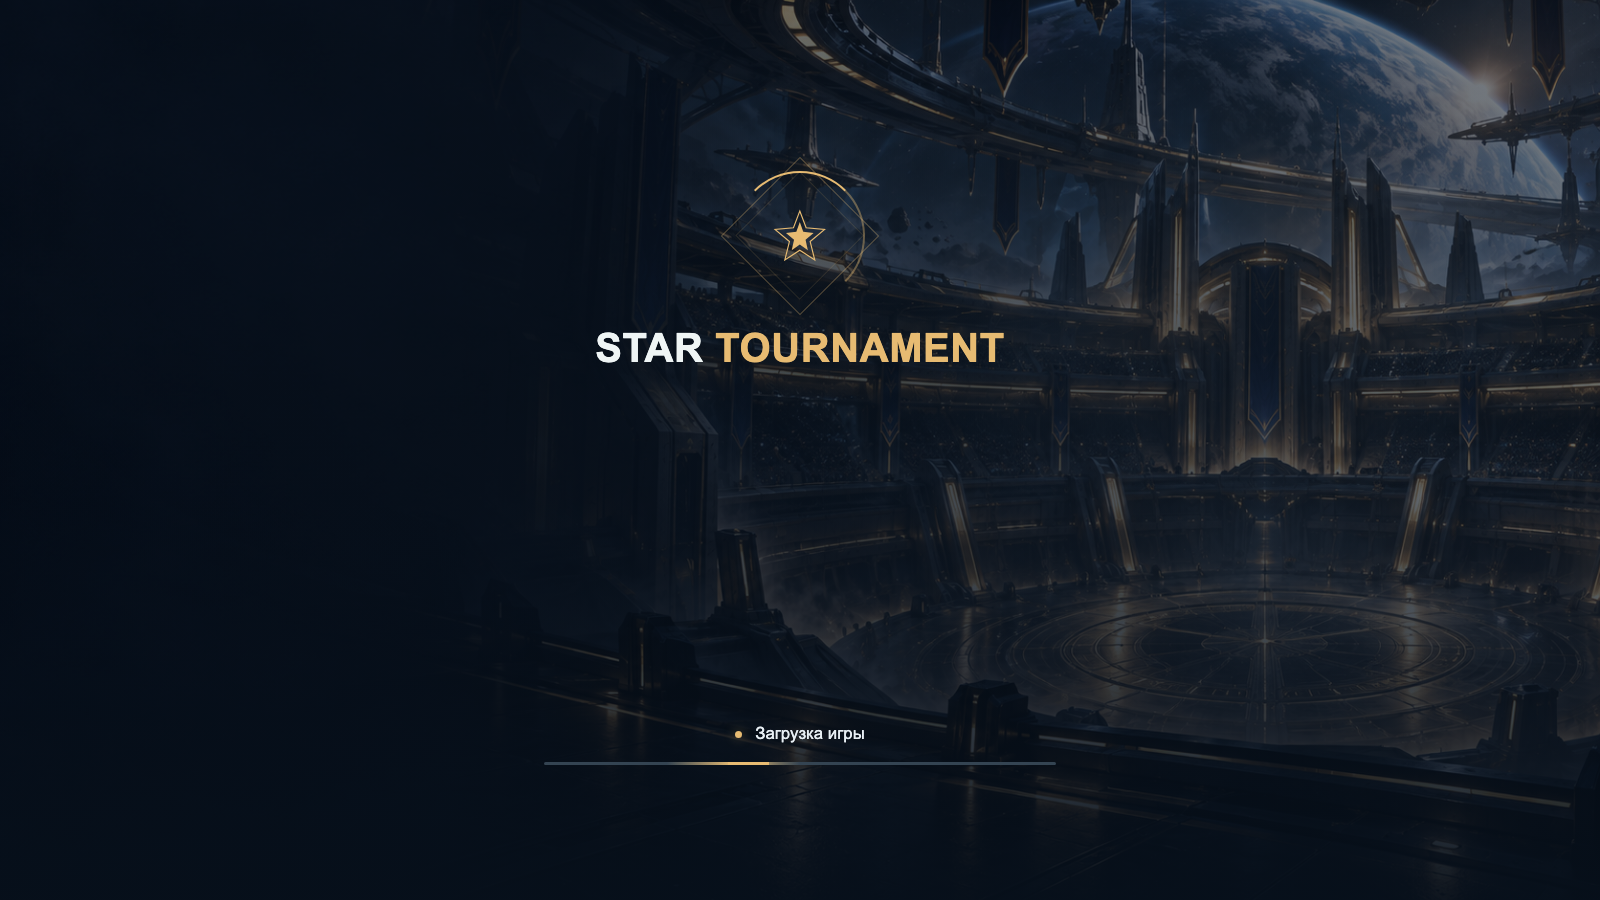
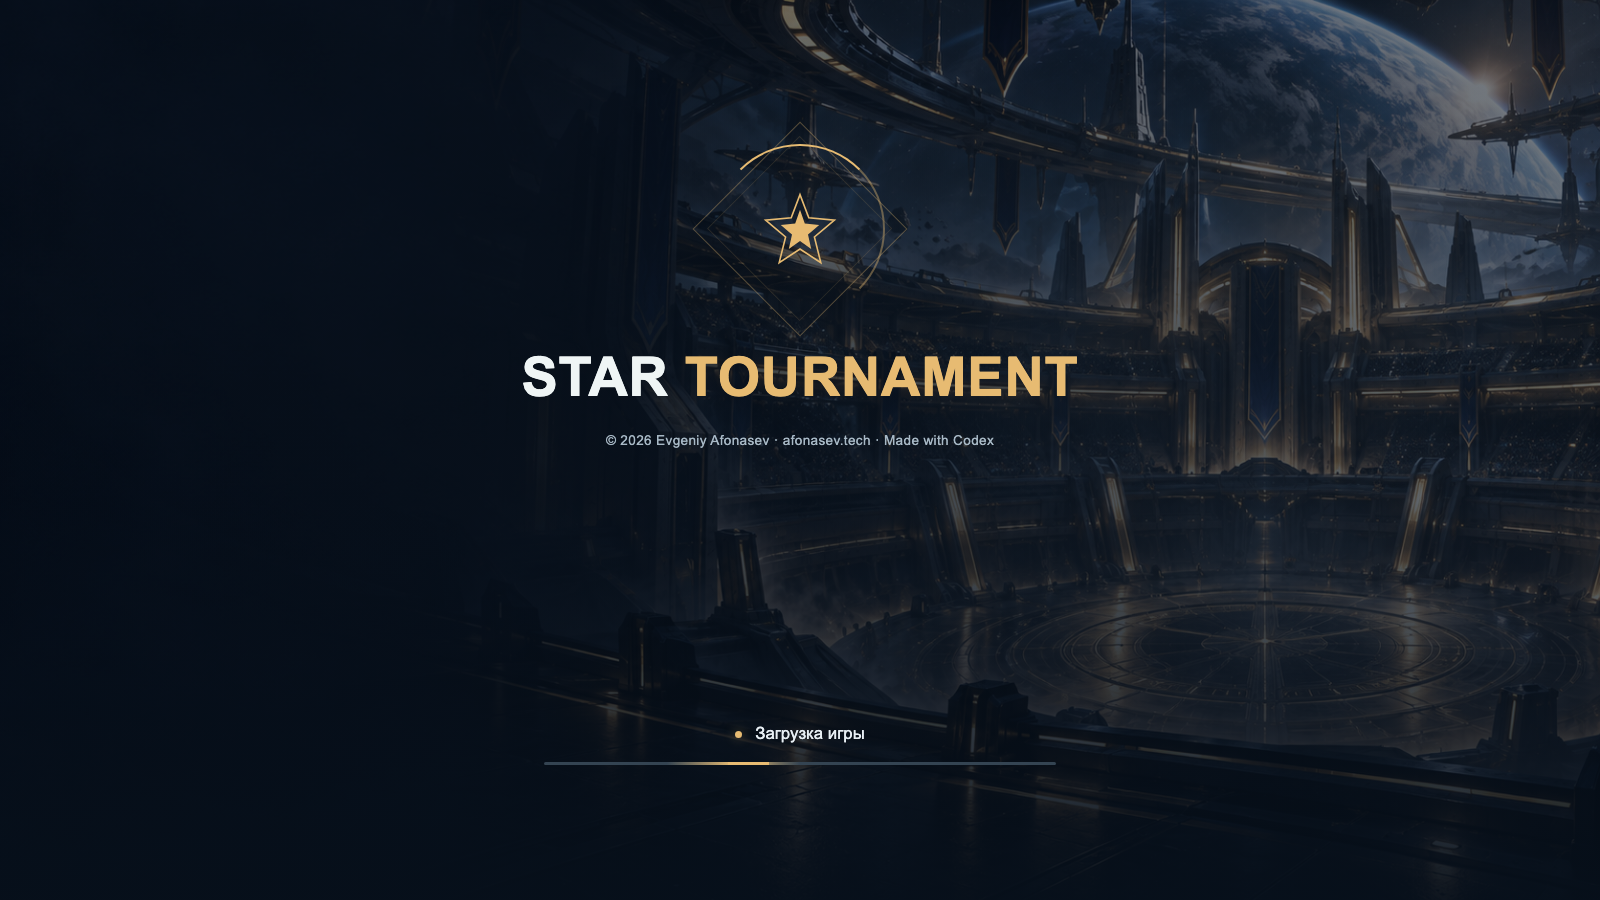
Enlarge startup branding and add author credit

Changed region(s): [[0.3125, 0.3422, 0.6875, 0.4978], [0.4688, 0.1556, 0.5625, 0.3111]]

diff --git a/docs/evidence/loading-screen-designs/index.html b/docs/evidence/loading-screen-designs/index.html
@@ -1,11 +1,12 @@
 <!doctype html><html lang="ru"><meta charset="utf-8"><title>Star Tournament — экраны загрузки</title>
 <style>
 *{box-sizing:border-box}body{margin:0;background:#101c29;color:#eff5f5;font-family:Arial,sans-serif} .screen{width:100vw;height:56.25vw;position:relative;overflow:hidden;background:#101c29 url('../../../unity/Assets/StarTournament/Resources/UI/menu-arena.png') center/cover no-repeat}.screen:before{content:'';position:absolute;inset:0;background:linear-gradient(90deg,rgba(7,16,27,.94),rgba(7,16,27,.45) 46%,rgba(7,16,27,.08) 76%),linear-gradient(0deg,rgba(7,16,27,.95),transparent 45%)}.brand{font-size:3.15vw;line-height:1.05;font-weight:700;letter-spacing:.015em}.gold{color:#e7bb72}.eyebrow{font-size:.86vw;letter-spacing:.2em;color:#a8b9c6;font-weight:700}.brand.small{font-size:1.15vw;letter-spacing:.08em}.content{position:absolute;left:6%;top:23%;width:38%}h1{font-size:3.2vw;line-height:1.08;margin:1.4vw 0 1.5vw;font-weight:700}h2{font-size:1.65vw;font-weight:400;margin:0 0 .7vw}p{font-size:1.05vw;color:#a8b9c6;line-height:1.65;margin:.7vw 0}.loading{position:absolute;left:6%;bottom:12%;width:34%}.status{display:flex;align-items:center;gap:.8vw;font-size:1.05vw;margin:1.1vw 0;color:#e8eff4}.track{position:relative;height:3px;background:#344452;overflow:hidden;border-radius:3px}.track:after{content:'';position:absolute;left:24%;width:26%;height:100%;background:linear-gradient(90deg,transparent,#e7bb72,transparent);animation:sweep 2s ease-in-out infinite}.track:before{content:'';position:absolute;left:36%;width:8%;height:100%;background:#e7bb72;box-shadow:0 0 12px #e7bb72}.dot{width:.45vw;height:.45vw;background:#e7bb72;border-radius:50%;box-shadow:0 0 12px #e7bb7277;animation:pulse 1.6s infinite}.foot{position:absolute;bottom:4%;left:6%;right:6%;display:flex;justify-content:space-between;font-size:.8vw;letter-spacing:.1em;color:#7f94a4}.match .rule .eyebrow{background:#101c29c9;padding:.55vw .8vw;border-radius:.3vw}.details .eyebrow.gold{color:#e7bb72}.rule{position:absolute;top:9%;left:6%;right:6%;display:flex;align-items:center;justify-content:space-between}.fine{height:1px;width:6vw;background:#e7bb72;margin:2.3vw 0}.meta{display:flex;gap:2vw;margin:1.8vw 0;color:#dce6eb;font-size:1.05vw}.meta span{border-left:1px solid #52616c;padding-left:.8vw}.meta b{display:block;font-size:.74vw;letter-spacing:.13em;color:#97aabb;margin-bottom:.55vw;font-weight:400}.badge{display:inline-block;border:1px solid #e7bb7255;color:#e7bb72;padding:.5vw .7vw;border-radius:.35vw;font-size:.74vw;letter-spacing:.12em}.tip{position:absolute;right:6%;bottom:12%;width:29%;padding:1.4vw 1.8vw;border-radius:.8vw;border:1px solid #60727c55;background:#101c29d9}.tip p{margin-bottom:0;font-size:.93vw}.tip .eyebrow{color:#e7bb72;letter-spacing:.14em}.match .content{top:28%}.match .loading{width:42%;bottom:13%}.center:before{background:linear-gradient(0deg,rgba(7,16,27,.95),rgba(7,16,27,.52) 45%,rgba(7,16,27,.5)),radial-gradient(ellipse at center,rgba(7,16,27,.58),transparent)}.central{position:absolute;top:20%;left:50%;transform:translateX(-50%);text-align:center;width:54%}.central .brand{font-size:2.5vw;line-height:1.2}.emblem{width:7vw;height:7vw;margin:0 auto 2vw;position:relative;display:grid;place-items:center}.emblem:before,.emblem:after{content:'';position:absolute;inset:0;border:1px solid #e7bb7255;transform:rotate(45deg)}.emblem:after{inset:.65vw;border-color:#e7bb7222}.emblem svg{width:3.6vw;height:3.6vw}.ring{position:absolute;inset:-.55vw;border:2px solid transparent;border-top-color:#e7bb72;border-right-color:#e7bb7266;border-radius:50%;animation:spin 6s linear infinite}.center .loading{left:50%;transform:translateX(-50%);text-align:center;width:32%;bottom:15%}.center .status{justify-content:center}.center h2{margin-top:1.8vw;font-size:1.3vw}.card{position:absolute;left:50%;top:25%;transform:translateX(-50%);width:56%;border:1px solid #6c809155;border-radius:1vw;overflow:hidden;background:#101c29ec;box-shadow:0 30px 80px #0008;display:flex}.art{width:38%;position:relative;background:url('../../../unity/Assets/StarTournament/Resources/UI/menu-arena.png') 70% center/cover;min-height:22vw}.art:after{content:'';position:absolute;inset:0;background:linear-gradient(0deg,#101c29aa,transparent 65%)}.art .badge{position:absolute;bottom:1.7vw;left:1.5vw;z-index:1;background:#101c29c9}.details{padding:2.2vw 2.5vw;width:62%}.details h1{font-size:2.45vw;margin:1vw 0}.details .meta{gap:1.2vw;font-size:.94vw}.details .fine{margin:1.5vw 0;width:100%;background:#3e5363}.bmatch .loading{bottom:15%;width:40%}.bmatch:before{background:linear-gradient(0deg,#07101bf2,#07101b9c),linear-gradient(90deg,#07101b77,transparent)}
+#b-start .central{top:17%;width:70%}#b-start .emblem{width:9.5vw;height:9.5vw;margin-bottom:2.5vw}#b-start .emblem svg{width:5vw;height:5vw}#b-start .central .brand{font-size:3.4vw}#b-start .credits{margin-top:1.25vw;font-size:.85vw;color:#a8b9c6;letter-spacing:.025em}
 @keyframes sweep{50%{transform:translateX(130%)}}@keyframes spin{to{transform:rotate(360deg)}}@keyframes pulse{50%{opacity:.4}}
 @media(prefers-reduced-motion:reduce){*{animation:none!important}}
 </style>
 <section class="screen" id="a-start"><div class="content"><div class="brand">STAR<br><span class="gold">TOURNAMENT</span></div><div class="fine"></div><h2>Скоро на арене</h2><p>Подготовка главного меню</p></div><div class="loading"><div class="status"><i class="dot"></i>Загрузка игры</div><div class="track"></div></div><div class="foot"><span>STAR TOURNAMENT</span><span>Подождите немного</span></div></section>
 <section class="screen match" id="a-match"><div class="rule"><div class="brand small">STAR <span class="gold">TOURNAMENT</span></div><span class="eyebrow">ПОДГОТОВКА МАТЧА</span></div><div class="content"><span class="badge">ВЫБРАННАЯ КАРТА</span><h1>Комбат боул</h1><p>Арена готовится к вашему матчу</p><div class="meta"><span><b>РЕЖИМ</b>Каждый за себя</span><span><b>УЧАСТНИКИ</b>4 участника</span><span><b>ЦЕЛЬ</b>2 000 очков</span></div></div><div class="loading"><div class="status"><i class="dot"></i>Подготовка арены</div><div class="track"></div></div><div class="tip"><div class="eyebrow">ПЕРЕД БОЕМ</div><p>Двигайтесь между выстрелами.<br>На открытой арене легко стать мишенью.</p></div><div class="foot"><span>СЛЕДУЮЩАЯ ОСТАНОВКА — АРЕНА</span><span>Матч начнётся автоматически</span></div></section>
-<section class="screen center" id="b-start"><div class="central"><div class="emblem"><div class="ring"></div><svg viewBox="0 0 100 100"><path d="M50 7 61 36 93 39 68 60 76 92 50 75 24 92 32 60 7 39 39 36Z" fill="none" stroke="#e7bb72" stroke-width="2"/><path d="M50 26 56 43 74 45 60 57 64 75 50 65 36 75 40 57 26 45 44 43Z" fill="#e7bb72"/></svg></div><div class="brand">STAR <span class="gold">TOURNAMENT</span></div></div><div class="loading"><div class="status"><i class="dot"></i>Загрузка игры</div><div class="track"></div></div></section>
+<section class="screen center" id="b-start"><div class="central"><div class="emblem"><div class="ring"></div><svg viewBox="0 0 100 100"><path d="M50 7 61 36 93 39 68 60 76 92 50 75 24 92 32 60 7 39 39 36Z" fill="none" stroke="#e7bb72" stroke-width="2"/><path d="M50 26 56 43 74 45 60 57 64 75 50 65 36 75 40 57 26 45 44 43Z" fill="#e7bb72"/></svg></div><div class="brand">STAR <span class="gold">TOURNAMENT</span></div><p class="credits">© 2026 Evgeniy Afonasev · afonasev.tech · Made with Codex</p></div><div class="loading"><div class="status"><i class="dot"></i>Загрузка игры</div><div class="track"></div></div></section>
 <section class="screen center bmatch" id="b-match"><div class="rule"><div class="brand small">STAR <span class="gold">TOURNAMENT</span></div><span class="eyebrow">ПОДГОТОВКА МАТЧА</span></div><div class="card"><div class="art"><span class="badge">ВЫБРАННАЯ КАРТА</span></div><div class="details"><span class="eyebrow gold">ВАШ СЛЕДУЮЩИЙ МАТЧ</span><h1>Комбат боул</h1><p>Каждый за себя</p><div class="fine"></div><div class="meta"><span><b>УЧАСТНИКИ</b>4 участника</span><span><b>ЦЕЛЬ</b>2 000 очков</span></div></div></div><div class="loading"><div class="status"><i class="dot"></i>Подготовка арены</div><div class="track"></div><p>Матч начнётся автоматически</p></div></section>
 </html>

diff --git a/docs/evidence/loading-screen-designs/README.md b/docs/evidence/loading-screen-designs/README.md
@@ -40,3 +40,5 @@ NODE_PATH=<workspace-node-modules> <workspace-node> docs/evidence/loading-screen
 PNG: `a-start.png`, `a-match.png`, `b-start.png`, `b-match.png`. Проверены визуально после рендера в 1600×900; автоматическая проверка переполнения текста в 1280×720. Это проверка макетов, не Unity/runtime/physical acceptance. Unity, Player build и release не запускались.
 
 Ветка с исходниками и PNG сохраняется для выбора и дальнейшей работы; временные сборки, кэши и логи этой задачей не создавались.
+
+Изменение по запросу пользователя: на стартовом экране B увеличены эмблема и название игры; под названием добавлена небольшая английская строка «© 2026 Evgeniy Afonasev · afonasev.tech · Made with Codex». Экран перед матчем не менялся.
